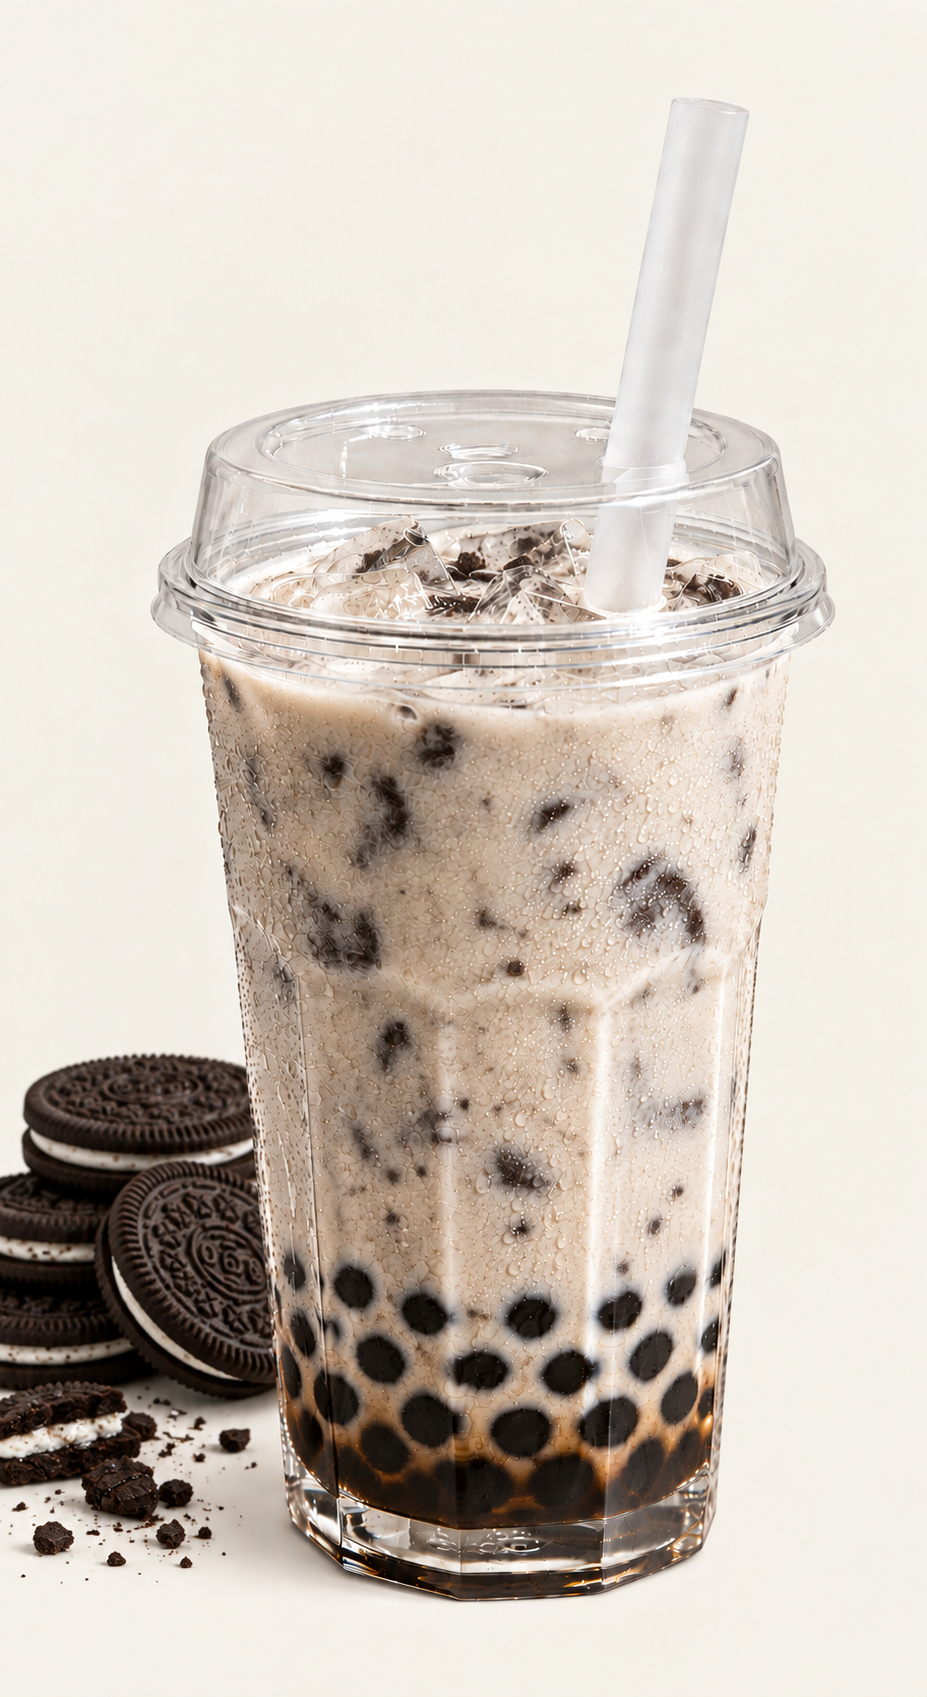
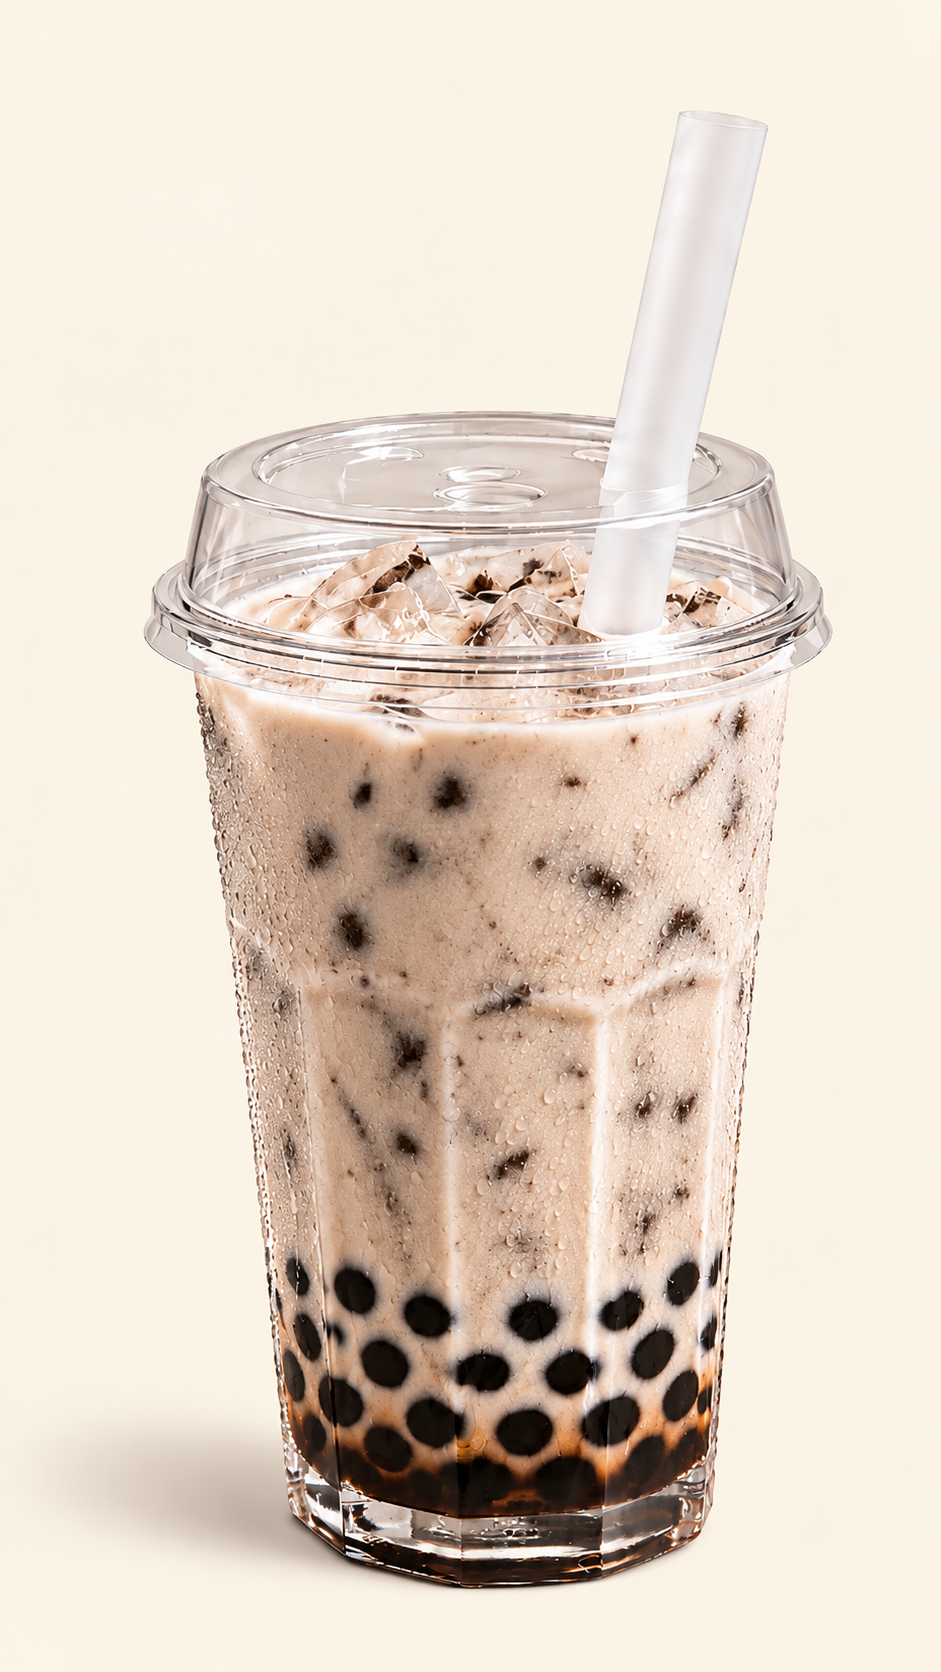
fix refund error

diff --git a/supabase/functions/mark-order-unavailable/index.ts b/supabase/functions/mark-order-unavailable/index.ts
@@ -274,6 +274,24 @@ Deno.serve(async (req) => {
         payload.data && typeof payload.data === "object"
           ? (payload.data as Record<string, unknown>)
           : {};
+      const rawRefundStatus =
+        typeof refundData.status === "string"
+          ? refundData.status.toLowerCase()
+          : "";
+      const normalizedRefundStatus =
+        rawRefundStatus === "processed" ||
+        rawRefundStatus === "success" ||
+        rawRefundStatus === "completed"
+          ? "processed"
+          : rawRefundStatus === "pending" ||
+              rawRefundStatus === "processing" ||
+              rawRefundStatus === "queued"
+            ? "pending"
+            : rawRefundStatus === "failed" ||
+                rawRefundStatus === "cancelled" ||
+                rawRefundStatus === "reversed"
+              ? "failed"
+              : "unknown";
 
       if (!refundResponse.ok || payload.status !== true) {
         refundStatus = "failed";
@@ -281,14 +299,25 @@ Deno.serve(async (req) => {
           typeof payload.message === "string"
             ? payload.message
             : "Paystack did not accept the refund request.";
+      } else if (normalizedRefundStatus === "failed") {
+        refundStatus = "failed";
+        refundErrorMessage =
+          typeof refundData.message === "string"
+            ? refundData.message
+            : "Paystack rejected the refund request.";
+      } else if (normalizedRefundStatus === "unknown") {
+        refundStatus = "unknown";
+        refundErrorMessage =
+          "Paystack returned an unexpected refund result. The refund must be confirmed from Paystack before the order is considered refunded.";
       } else {
         refundAccepted = true;
-        refundStatus =
-          refundData.status === "processed" ? "processed" : "pending";
+        refundStatus = normalizedRefundStatus;
         refundReference =
           typeof refundData.refund_reference === "string"
             ? refundData.refund_reference
-            : null;
+            : typeof refundData.reference === "string"
+              ? refundData.reference
+              : null;
       }
     } catch (error) {
       console.error("Paystack refund request outcome is unknown:", error);
@@ -297,7 +326,9 @@ Deno.serve(async (req) => {
     }
 
     const refundMessage = refundAccepted
-      ? "A full refund has been initiated to your original payment method. Processing time depends on your payment provider."
+      ? refundStatus === "processed"
+        ? "A full refund has been processed to your original payment method. The money usually lands within a few business days depending on your payment provider."
+        : "A full refund has been requested and is still pending confirmation from Paystack. We will update this order once the refund is confirmed."
       : "We could not confirm that the automatic refund was accepted. AkroBite support will follow up.";
 
     const { error: refundRecordError } = await admin
@@ -314,10 +345,17 @@ Deno.serve(async (req) => {
     }
 
     if (refundAccepted) {
+      const paymentStatus =
+        refundStatus === "processed"
+          ? "refunded"
+          : refundStatus === "pending"
+            ? "refund_pending"
+            : "refund_failed";
+
       const { error: paymentUpdateError } = await admin
         .from("payments")
         .update({
-          status: refundStatus === "processed" ? "refunded" : "refund_pending",
+          status: paymentStatus,
           updated_at: new Date().toISOString(),
         })
         .eq("reference", orderRow.payment_reference);

diff --git a/src/app/_layout.tsx b/src/app/_layout.tsx
@@ -3,63 +3,9 @@ import "../../global.css";
 import AuthRedirect from "../components/AuthRedirect";
 import { CartProvider } from "@/context/CartContext";
 import { FavoritesProvider } from "@/context/FavoritesContext";
-import * as Notifications from "expo-notifications";
 import { Stack } from "expo-router";
-import { Platform } from "react-native";
-import { useEffect } from "react";
-
-Notifications.setNotificationHandler({
-  handleNotification: async () => ({
-    shouldShowAlert: true,
-    shouldPlaySound: true,
-    shouldSetBadge: false,
-    shouldShowBanner: true,
-    shouldShowList: true,
-  }),
-});
 
 function MobileNotificationSetup() {
-  useEffect(() => {
-    if (Platform.OS === "web") {
-      return;
-    }
-
-    let mounted = true;
-
-    const registerNotifications = async () => {
-      const { status } = await Notifications.getPermissionsAsync();
-      let finalStatus = status;
-
-      if (finalStatus !== "granted") {
-        const permissionRequest = await Notifications.requestPermissionsAsync();
-        finalStatus = permissionRequest.status;
-      }
-
-      if (finalStatus !== "granted") {
-        console.log("Notifications permission not granted on this device.");
-        return;
-      }
-
-      const token = (await Notifications.getExpoPushTokenAsync()).data;
-      if (mounted && token) {
-        console.log("Push token ready for mobile notifications:", token);
-      }
-    };
-
-    const receivedListener = Notifications.addNotificationReceivedListener(
-      (notification) => {
-        console.log("Foreground notification received:", notification.request.content.title);
-      },
-    );
-
-    void registerNotifications();
-
-    return () => {
-      mounted = false;
-      receivedListener.remove();
-    };
-  }, []);
-
   return null;
 }
 

diff --git a/src/data/bloomBakesMenu.ts b/src/data/bloomBakesMenu.ts
@@ -24,15 +24,15 @@ const matchaImage = {
   uri: "https://images.unsplash.com/photo-1515823064-d6e0c04616a7?auto=format&fit=crop&w=900&q=80",
 };
 const menuImage = bloomCupImage;
-const strawberryTea = require("../../assets/images/food/strawberry-tea.jpg");
-const vanillaTea = require("../../assets/images/food/vanilla-tea.jpg");
+const strawberryTea = require("../../assets/images/food/strawberry-tea.png");
+const vanillaTea = require("../../assets/images/food/vanilla-tea.png");
 const matchaTea = require("../../assets/images/food/matcha-tea.png");
 const coconutTea = require("../../assets/images/food/coconut-milk-tea.jpg");
-const blueberryTea = require("../../assets/images/food/blueberry-tea.jpg");
+const blueberryTea = require("../../assets/images/food/blueberry-tea.png");
 const chocolateTea = require("../../assets/images/food/chocolate-milk-tea.jpg");
 const mangoTea = require("../../assets/images/food/mango-tea.jpg");
 const coffeeTea = require("../../assets/images/food/coffee-milk-tea.jpg");
-const cookiesAndCreamTea = require("../../assets/images/food/cookies-and-cream-tea.jpg");
+const cookiesAndCreamTea = require("../../assets/images/food/cookies-and-cream-tea.png");
 const bananaTea = require("../../assets/images/food/banana-tea.jpg");
 const taroTea = require("../../assets/images/food/taro-tea.png");
 const purpleBlueberryTea = require("../../assets/images/food/purple-blueberry-tea.png");

diff --git a/src/context/CartContext.tsx b/src/context/CartContext.tsx
@@ -1,6 +1,5 @@
 import { supabase } from "@/lib/supabase";
 import AsyncStorage from "@react-native-async-storage/async-storage";
-import * as Notifications from "expo-notifications";
 import { Platform } from "react-native";
 import {
   createContext,
@@ -792,27 +791,6 @@ export function CartProvider({ children }: CartProviderProps) {
         const previousOrder = previousOrderMap.get(nextOrder.id);
         return Boolean(previousOrder && previousOrder.status !== nextOrder.status);
       });
-
-      if (Platform.OS !== "web" && newlyChangedOrders.length > 0) {
-        const permission = await Notifications.getPermissionsAsync();
-
-        if (permission.status === "granted") {
-          for (const order of newlyChangedOrders.slice(0, 3)) {
-            const orderStatusText = order.status
-              .replace(/_/g, " ")
-              .replace(/\b\w/g, (char: string) => char.toUpperCase());
-
-            await Notifications.scheduleNotificationAsync({
-              content: {
-                title: `${order.restaurantName}: ${orderStatusText}`,
-                body: `Your order has been updated to ${orderStatusText}.`,
-                data: { orderId: order.id },
-              },
-              trigger: null,
-            });
-          }
-        }
-      }
 
       previousOrdersRef.current = nextOrders;
       setOrders(nextOrders);

diff --git a/supabase/functions/paystack-webhook/index.ts b/supabase/functions/paystack-webhook/index.ts
@@ -210,6 +210,7 @@ Deno.serve(async (req) => {
     // ------------------------------------------------------------------
     if (
       type === "refund.processed" ||
+      type === "refund.success" ||
       type === "refund.failed" ||
       type === "refund.pending" ||
       type === "refund.processing"
@@ -234,7 +235,7 @@ Deno.serve(async (req) => {
             : null;
 
       const patch =
-        type === "refund.processed"
+        type === "refund.processed" || type === "refund.success"
           ? {
               refund_status: "refunded",
               payment_status: "refunded",
@@ -242,8 +243,18 @@ Deno.serve(async (req) => {
               updated_at: now,
             }
           : type === "refund.failed"
-            ? { refund_status: "failed", updated_at: now }
-            : { refund_status: "processing", updated_at: now };
+            ? {
+                refund_status: "failed",
+                payment_status: "refund_failed",
+                refund_reference: refundReference,
+                updated_at: now,
+              }
+            : {
+                refund_status: "pending",
+                payment_status: "refund_pending",
+                refund_reference: refundReference,
+                updated_at: now,
+              };
 
       const { error } = await admin
         .from("orders")

diff --git a/src/data/lizjaysMenu.ts b/src/data/lizjaysMenu.ts
@@ -15,10 +15,10 @@ export type MenuCategory = {
 };
 
 const menuImage = require("../../assets/images/akrobite-logo.png");
-const strawberryTea = require("../../assets/images/food/strawberry-tea.jpg");
-const vanillaTea = require("../../assets/images/food/vanilla-tea.jpg");
+const strawberryTea = require("../../assets/images/food/strawberry-tea.png");
+const vanillaTea = require("../../assets/images/food/vanilla-tea.png");
 const coconutTea = require("../../assets/images/food/coconut-milk-tea.jpg");
-const blueberryTea = require("../../assets/images/food/blueberry-tea.jpg");
+const blueberryTea = require("../../assets/images/food/blueberry-tea.png");
 const chocolateTea = require("../../assets/images/food/chocolate-milk-tea.jpg");
 const taroTea = require("../../assets/images/food/taro-tea.png");
 const purpleBlueberryTea = require("../../assets/images/food/purple-blueberry-tea.png");
